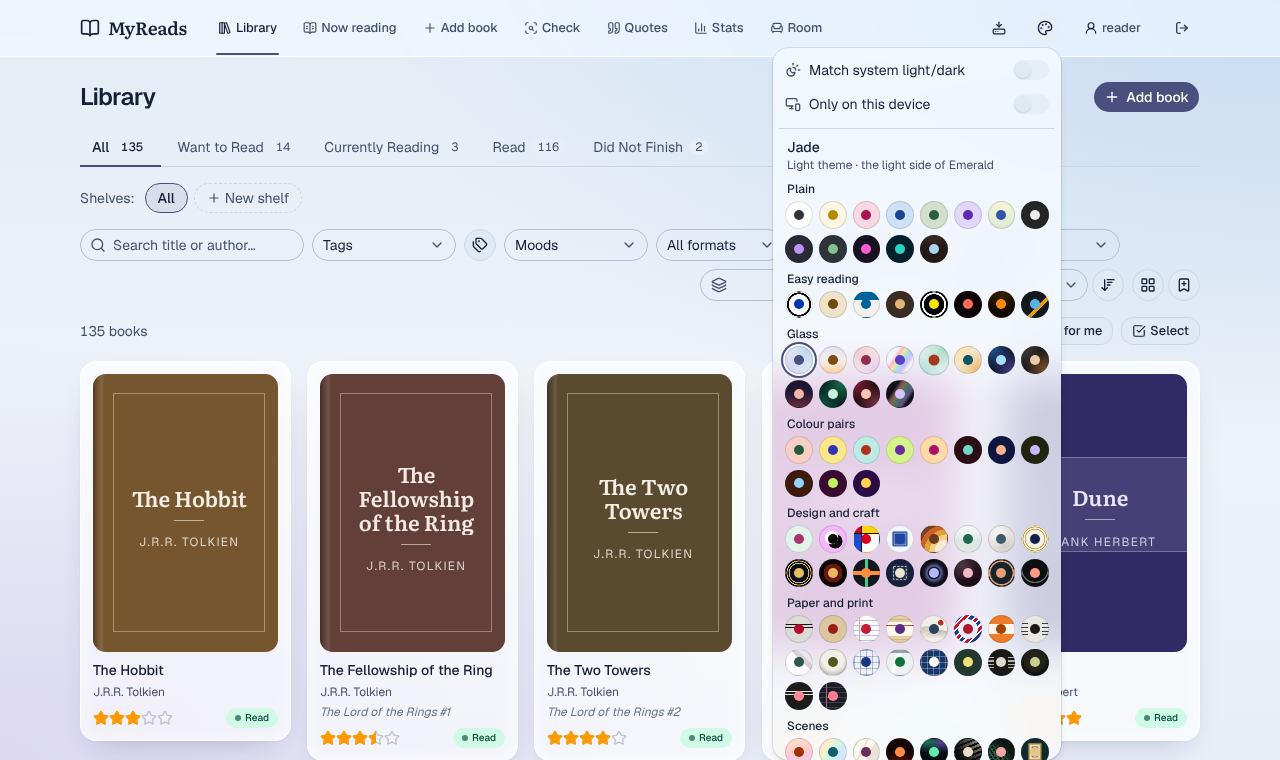
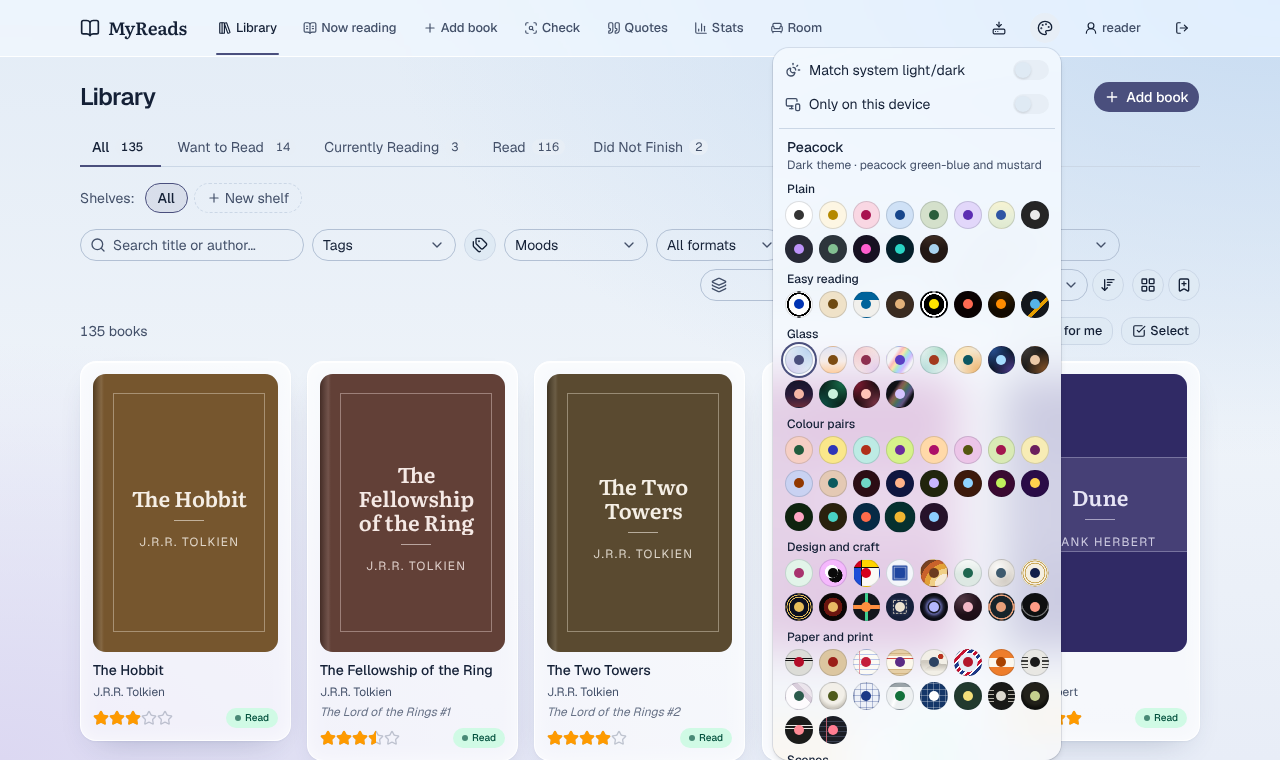
Add ten more colour pairs, five light and five dark (#124)
Light: Orchid, Pistachio, Custard, Periwinkle, Canyon. Dark: Camellia, Faience, Woodblock, Peacock, Mulberry. Every colour pair now names its two colours in the palette menu (134 themes, 61/61/12).

Claude-Session: https://claude.ai/code/session_01SzCpvXKpb4o235Cv7xQjZT

Changed region(s): [[0.5938, 0.575, 0.8438, 1.0], [0.625, 0.1816, 0.8125, 0.2421], [0.7188, 0.4539, 0.75, 0.4842]]

diff --git a/src/app/globals.css b/src/app/globals.css
@@ -243,10 +243,11 @@
     --heading-font: var(--font-literata), ui-serif, Georgia, serif;
 }
 
-/* Bordeaux, Riviera, Rhubarb and Majorelle pair a page with an accent
-   from across the colour wheel, where the other themes keep the accent
-   close to the page's own hue (or neutral). Each pairing is one that works
-   in rooms and on book jackets but is rare on a screen. */
+/* The colour pairs (Bordeaux to Mulberry in dark, Rhubarb to Canyon in
+   light) pair a page with an accent from across the colour wheel, where
+   the other themes keep the accent close to the page's own hue (or
+   neutral). Each pairing is one that works in rooms and on book jackets
+   but is rare on a screen, and no two use the same one. */
 
 /* Wine-dark red with sea-glass green. No other dark is red at all. Danger
    is coral, as a red would vanish into the page. */
@@ -394,6 +395,119 @@
     --border: #52267d;
     --input: #52267d;
     --ring: #ffd24d;
+}
+
+/* Deep moss green with camellia pink, glossy leaves and the flower. Danger
+   is amber, as pink is already taken. */
+[data-theme="camellia"] {
+    --background: #10240f;
+    --foreground: #f1f5ec;
+    --card: #183117;
+    --card-foreground: #f1f5ec;
+    --popover: #183117;
+    --popover-foreground: #f1f5ec;
+    --primary: #ffa6c3;
+    --primary-foreground: #10240f;
+    --secondary: #173416;
+    --secondary-foreground: #f1f5ec;
+    --muted: #173416;
+    --muted-foreground: #bbc3b7;
+    --accent: #173416;
+    --accent-foreground: #f1f5ec;
+    --destructive: #ffc46b;
+    --border: #1e441d;
+    --input: #1e441d;
+    --ring: #ffa6c3;
+}
+
+/* Dark bronze with turquoise, the glaze of old Egyptian faience on its
+   metal mount. */
+[data-theme="faience"] {
+    --background: #2a210d;
+    --foreground: #f6efe0;
+    --card: #372c15;
+    --card-foreground: #f6efe0;
+    --popover: #372c15;
+    --popover-foreground: #f6efe0;
+    --primary: #48d1c4;
+    --primary-foreground: #2a210d;
+    --secondary: #3c2f12;
+    --secondary-foreground: #f6efe0;
+    --muted: #3c2f12;
+    --muted-foreground: #c5bead;
+    --accent: #3c2f12;
+    --accent-foreground: #f6efe0;
+    --destructive: #ff9a85;
+    --border: #4d3d18;
+    --input: #4d3d18;
+    --ring: #48d1c4;
+}
+
+/* Prussian blue with vermilion, the two inks of an old Japanese woodblock
+   print. Danger is gold, as red would be the accent. */
+[data-theme="woodblock"] {
+    --background: #072a45;
+    --foreground: #edf4fa;
+    --card: #0f3654;
+    --card-foreground: #edf4fa;
+    --popover: #0f3654;
+    --popover-foreground: #edf4fa;
+    --primary: #ff6b4a;
+    --primary-foreground: #072a45;
+    --secondary: #09375a;
+    --secondary-foreground: #edf4fa;
+    --muted: #09375a;
+    --muted-foreground: #b6c4cf;
+    --accent: #09375a;
+    --accent-foreground: #edf4fa;
+    --destructive: #ffd166;
+    --border: #0b436f;
+    --input: #0b436f;
+    --ring: #ff6b4a;
+}
+
+/* Peacock green-blue with mustard, the eye of a peacock's feather. */
+[data-theme="peacock"] {
+    --background: #06302f;
+    --foreground: #f4fcfa;
+    --card: #0d3d3b;
+    --card-foreground: #f4fcfa;
+    --popover: #0d3d3b;
+    --popover-foreground: #f4fcfa;
+    --primary: #f2b631;
+    --primary-foreground: #06302f;
+    --secondary: #094443;
+    --secondary-foreground: #f4fcfa;
+    --muted: #094443;
+    --muted-foreground: #bbcbc9;
+    --accent: #094443;
+    --accent-foreground: #f4fcfa;
+    --destructive: #ff9a85;
+    --border: #0b5957;
+    --input: #0b5957;
+    --ring: #f2b631;
+}
+
+/* Mulberry purple with sky blue, the fruit against a summer sky. */
+[data-theme="mulberry"] {
+    --background: #26122a;
+    --foreground: #f7ebf6;
+    --card: #341a39;
+    --card-foreground: #f7ebf6;
+    --popover: #341a39;
+    --popover-foreground: #f7ebf6;
+    --primary: #8ccfff;
+    --primary-foreground: #26122a;
+    --secondary: #35193a;
+    --secondary-foreground: #f7ebf6;
+    --muted: #35193a;
+    --muted-foreground: #c5b7c5;
+    --accent: #35193a;
+    --accent-foreground: #f7ebf6;
+    --destructive: #ffa385;
+    --border: #43204a;
+    --input: #43204a;
+    --ring: #8ccfff;
 }
 
 /* The next ten differ in kind rather than hue: two duotones (Blueprint,
@@ -1424,6 +1538,118 @@
     --border: #f0bd7e;
     --input: #f0bd7e;
     --ring: #ad0f68;
+}
+
+/* Orchid pink with olive, the flower and the moss on the bark it grows on. */
+[data-theme="orchid"] {
+    --background: #ecc5e8;
+    --foreground: #241023;
+    --card: #f6e3f3;
+    --card-foreground: #241023;
+    --popover: #f6e3f3;
+    --popover-foreground: #241023;
+    --primary: #55550f;
+    --primary-foreground: #ffffff;
+    --secondary: #e8b0e2;
+    --secondary-foreground: #241023;
+    --muted: #e8b0e2;
+    --muted-foreground: #5a4158;
+    --accent: #e8b0e2;
+    --accent-foreground: #241023;
+    --destructive: #a3141e;
+    --border: #e19dda;
+    --input: #e19dda;
+    --ring: #55550f;
+}
+
+/* Pistachio green with raspberry, two ices in one cone. */
+[data-theme="pistachio"] {
+    --background: #d9eab5;
+    --foreground: #17240d;
+    --card: #ecf5d9;
+    --card-foreground: #17240d;
+    --popover: #ecf5d9;
+    --popover-foreground: #17240d;
+    --primary: #a3164f;
+    --primary-foreground: #ffffff;
+    --secondary: #d0e79f;
+    --secondary-foreground: #17240d;
+    --muted: #d0e79f;
+    --muted-foreground: #3e4c2f;
+    --accent: #d0e79f;
+    --accent-foreground: #17240d;
+    --destructive: #9a3412;
+    --border: #c5e08c;
+    --input: #c5e08c;
+    --ring: #a3164f;
+}
+
+/* Custard yellow with plum, a pudding. Softer and warmer than Majorelle's
+   lemon. */
+[data-theme="custard"] {
+    --background: #f7ecb5;
+    --foreground: #2a1a24;
+    --card: #fbf5d8;
+    --card-foreground: #2a1a24;
+    --popover: #fbf5d8;
+    --popover-foreground: #2a1a24;
+    --primary: #6b1f5e;
+    --primary-foreground: #ffffff;
+    --secondary: #f7e89c;
+    --secondary-foreground: #2a1a24;
+    --muted: #f7e89c;
+    --muted-foreground: #61534b;
+    --accent: #f7e89c;
+    --accent-foreground: #2a1a24;
+    --destructive: #a3241c;
+    --border: #f3e186;
+    --input: #f3e186;
+    --ring: #6b1f5e;
+}
+
+/* Periwinkle blue with rust, like a rusted gate in a bed of periwinkles.
+   Bluer than Lilac, more violet than Cyanotype. */
+[data-theme="periwinkle"] {
+    --background: #c9d2f2;
+    --foreground: #11162e;
+    --card: #e4e8fa;
+    --card-foreground: #11162e;
+    --popover: #e4e8fa;
+    --popover-foreground: #11162e;
+    --primary: #923800;
+    --primary-foreground: #ffffff;
+    --secondary: #b3c0ef;
+    --secondary-foreground: #11162e;
+    --muted: #b3c0ef;
+    --muted-foreground: #434963;
+    --accent: #b3c0ef;
+    --accent-foreground: #11162e;
+    --destructive: #a0183c;
+    --border: #9fafe9;
+    --input: #9fafe9;
+    --ring: #923800;
+}
+
+/* Canyon clay with deep teal, red rock and the river at the bottom of it. */
+[data-theme="canyon"] {
+    --background: #e4c9b4;
+    --foreground: #1e140d;
+    --card: #f2e3d7;
+    --card-foreground: #1e140d;
+    --popover: #f2e3d7;
+    --popover-foreground: #1e140d;
+    --primary: #0b5a5e;
+    --primary-foreground: #ffffff;
+    --secondary: #e0bb9f;
+    --secondary-foreground: #1e140d;
+    --muted: #e0bb9f;
+    --muted-foreground: #53453a;
+    --accent: #e0bb9f;
+    --accent-foreground: #1e140d;
+    --destructive: #a3241c;
+    --border: #d8ae8d;
+    --input: #d8ae8d;
+    --ring: #0b5a5e;
 }
 
 /* Black on white with black outlines on every card, field and chip: High

diff --git a/src/lib/themes.ts b/src/lib/themes.ts
@@ -95,12 +95,17 @@ export const THEMES: ThemeDef[] = [
   { id: "synthwave", name: "Synthwave", mode: "dark", category: "plain", swatch: ["#171122", "#ff5ed0"] },
   { id: "abyss", name: "Abyss", mode: "dark", category: "plain", swatch: ["#05202b", "#2ad4c4"] },
   { id: "sepia", name: "Sepia", mode: "dark", category: "reading", swatch: ["#3b2c21", "#e3b27a"] },
-  { id: "bordeaux", name: "Bordeaux", mode: "dark", category: "pairs", swatch: ["#2c0d14", "#6fd6c6"] },
-  { id: "riviera", name: "Riviera", mode: "dark", category: "pairs", swatch: ["#0f1640", "#ffb38a"] },
-  { id: "provence", name: "Provence", mode: "dark", category: "pairs", swatch: ["#21250d", "#c9b6ff"] },
-  { id: "terracotta", name: "Terracotta", mode: "dark", category: "pairs", swatch: ["#3d1a0c", "#8fd3ff"] },
-  { id: "dragonfruit", name: "Dragonfruit", mode: "dark", category: "pairs", swatch: ["#3a0a31", "#bff25c"] },
-  { id: "iris", name: "Iris", mode: "dark", category: "pairs", swatch: ["#2a0c47", "#ffd24d"] },
+  { id: "bordeaux", name: "Bordeaux", mode: "dark", category: "pairs", note: "wine red and sea-glass green", swatch: ["#2c0d14", "#6fd6c6"] },
+  { id: "riviera", name: "Riviera", mode: "dark", category: "pairs", note: "ultramarine and peach", swatch: ["#0f1640", "#ffb38a"] },
+  { id: "provence", name: "Provence", mode: "dark", category: "pairs", note: "olive and lavender", swatch: ["#21250d", "#c9b6ff"] },
+  { id: "terracotta", name: "Terracotta", mode: "dark", category: "pairs", note: "clay and sky blue", swatch: ["#3d1a0c", "#8fd3ff"] },
+  { id: "dragonfruit", name: "Dragonfruit", mode: "dark", category: "pairs", note: "magenta and lime", swatch: ["#3a0a31", "#bff25c"] },
+  { id: "iris", name: "Iris", mode: "dark", category: "pairs", note: "royal purple and saffron", swatch: ["#2a0c47", "#ffd24d"] },
+  { id: "camellia", name: "Camellia", mode: "dark", category: "pairs", note: "moss green and camellia pink", swatch: ["#10240f", "#ffa6c3"] },
+  { id: "faience", name: "Faience", mode: "dark", category: "pairs", note: "bronze and turquoise", swatch: ["#2a210d", "#48d1c4"] },
+  { id: "woodblock", name: "Woodblock", mode: "dark", category: "pairs", note: "Prussian blue and vermilion", swatch: ["#072a45", "#ff6b4a"] },
+  { id: "peacock", name: "Peacock", mode: "dark", category: "pairs", note: "peacock green-blue and mustard", swatch: ["#06302f", "#f2b631"] },
+  { id: "mulberry", name: "Mulberry", mode: "dark", category: "pairs", note: "mulberry and sky blue", swatch: ["#26122a", "#8ccfff"] },
   {
     id: "blueprint",
     name: "Blueprint",
@@ -512,11 +517,16 @@ export const THEMES: ThemeDef[] = [
   { id: "cyanotype", name: "Cyanotype", mode: "light", category: "plain", swatch: ["#cfe1f6", "#17468c"] },
   { id: "sage", name: "Sage", mode: "light", category: "plain", swatch: ["#d4e0cb", "#2b5e3c"] },
   { id: "lilac", name: "Lilac", mode: "light", category: "plain", swatch: ["#e2d7fa", "#5c2db3"] },
-  { id: "rhubarb", name: "Rhubarb", mode: "light", category: "pairs", swatch: ["#f6cfc4", "#225c3d"] },
-  { id: "majorelle", name: "Majorelle", mode: "light", category: "pairs", swatch: ["#fae78a", "#2f35b8"] },
-  { id: "lido", name: "Lido", mode: "light", category: "pairs", swatch: ["#bdebe4", "#b0301a"] },
-  { id: "absinthe", name: "Absinthe", mode: "light", category: "pairs", swatch: ["#d6f28a", "#6a2c9e"] },
-  { id: "marigold", name: "Marigold", mode: "light", category: "pairs", swatch: ["#ffd9a8", "#ad0f68"] },
+  { id: "rhubarb", name: "Rhubarb", mode: "light", category: "pairs", note: "rhubarb pink and leaf green", swatch: ["#f6cfc4", "#225c3d"] },
+  { id: "majorelle", name: "Majorelle", mode: "light", category: "pairs", note: "lemon yellow and cobalt", swatch: ["#fae78a", "#2f35b8"] },
+  { id: "lido", name: "Lido", mode: "light", category: "pairs", note: "aqua and red", swatch: ["#bdebe4", "#b0301a"] },
+  { id: "absinthe", name: "Absinthe", mode: "light", category: "pairs", note: "chartreuse and aubergine", swatch: ["#d6f28a", "#6a2c9e"] },
+  { id: "marigold", name: "Marigold", mode: "light", category: "pairs", note: "marigold orange and magenta", swatch: ["#ffd9a8", "#ad0f68"] },
+  { id: "orchid", name: "Orchid", mode: "light", category: "pairs", note: "orchid pink and olive", swatch: ["#ecc5e8", "#55550f"] },
+  { id: "pistachio", name: "Pistachio", mode: "light", category: "pairs", note: "pistachio green and raspberry", swatch: ["#d9eab5", "#a3164f"] },
+  { id: "custard", name: "Custard", mode: "light", category: "pairs", note: "custard yellow and plum", swatch: ["#f7ecb5", "#6b1f5e"] },
+  { id: "periwinkle", name: "Periwinkle", mode: "light", category: "pairs", note: "periwinkle blue and rust", swatch: ["#c9d2f2", "#923800"] },
+  { id: "canyon", name: "Canyon", mode: "light", category: "pairs", note: "red clay and deep teal", swatch: ["#e4c9b4", "#0b5a5e"] },
   {
     id: "high-contrast-light",
     name: "High Contrast Light",

diff --git a/src/lib/themes.test.ts b/src/lib/themes.test.ts
@@ -221,6 +221,14 @@ describe("THEMES", () => {
     expect(themeLine(silly)).toBe(silly.silly);
   });
 
+  it("names the two colours of every colour pair, each pairing once", () => {
+    const pairs = THEMES.filter((t) => t.category === "pairs");
+    expect(pairs.length).toBeGreaterThanOrEqual(21);
+    for (const t of pairs) expect(t.note, t.id).toMatch(/^[\w -]+ and [\w -]+$/);
+    expect(new Set(pairs.map((t) => t.note)).size).toBe(pairs.length);
+    expect(themeLine(THEMES.find((t) => t.id === "woodblock")!)).toBe("Dark theme · Prussian blue and vermilion");
+  });
+
   it("keeps every trace of blue out of Night Light", () => {
     // Its palette, and the amber it gives the app's other colours.
     const rule = css.match(/\.theme-is-night-light \{([^}]*)\}/)?.[1] ?? "";

diff --git a/docs/FEATURES.md b/docs/FEATURES.md
@@ -444,7 +444,7 @@ tab goes away. You can also keep the house and leave the avatar out.
 
 ## Look and feel
 
-- 124 colour themes, 56 light, 56 dark and the Silly set, or a light
+- 134 colour themes, 61 light, 61 dark and the Silly set, or a light
   and a dark one that switch with your
   device, with an accent colour of your own on top if you like. Your
   choice follows you to every device you sign in on, unless you give one
@@ -460,14 +460,22 @@ tab goes away. You can also keep the house and leave the avatar out.
   Leadlight, whose pictures crowded the page. If you had one of them you
   now have the theme nearest to it (Porcelain, Ink Wash and Material You
   for those three).
-- Eleven of the themes put together colours you rarely see side by side:
+- Twenty-one of the themes put together colours you rarely see side by
+  side, each pairing only once (point at one in the palette menu and it
+  names its two colours):
   - Dark: Bordeaux (wine red and sea-glass green), Riviera (ultramarine
     and peach), Provence (olive and lavender), Terracotta (clay and sky
-    blue), Dragonfruit (magenta and lime) and Iris (royal purple and
-    saffron).
+    blue), Dragonfruit (magenta and lime), Iris (royal purple and
+    saffron), Camellia (moss green and camellia pink), Faience (bronze
+    and turquoise), Woodblock (Prussian blue and vermilion, the inks of
+    a Japanese print), Peacock (peacock green-blue and mustard) and
+    Mulberry (mulberry and sky blue).
   - Light: Rhubarb (pink and green), Majorelle (lemon yellow and cobalt),
-    Lido (aqua and red), Absinthe (chartreuse and aubergine) and Marigold
-    (orange and magenta).
+    Lido (aqua and red), Absinthe (chartreuse and aubergine), Marigold
+    (orange and magenta), Orchid (orchid pink and olive), Pistachio
+    (pistachio green and raspberry), Custard (custard yellow and plum),
+    Periwinkle (periwinkle blue and rust) and Canyon (red clay and deep
+    teal).
 - Ten more are different kinds of theme rather than new colours:
   - Blueprint (white lines on blueprint blue) and Chalkboard (chalk and
     yellow on a green board), each in just two colours.

diff --git a/README.md b/README.md
@@ -66,7 +66,7 @@ server.
 
 **Make it yours**
 
-- 124 colour themes, as many dark as light and sorted by kind, some
+- 134 colour themes, as many dark as light and sorted by kind, some
   under glass, some with a picture or a font of their own, and ones for
   colour blindness and for reading in bed. Thirty-one restyle the whole app:
   a 1995 desktop, Windows, the Mac, Android, the Linux desktops, a code
